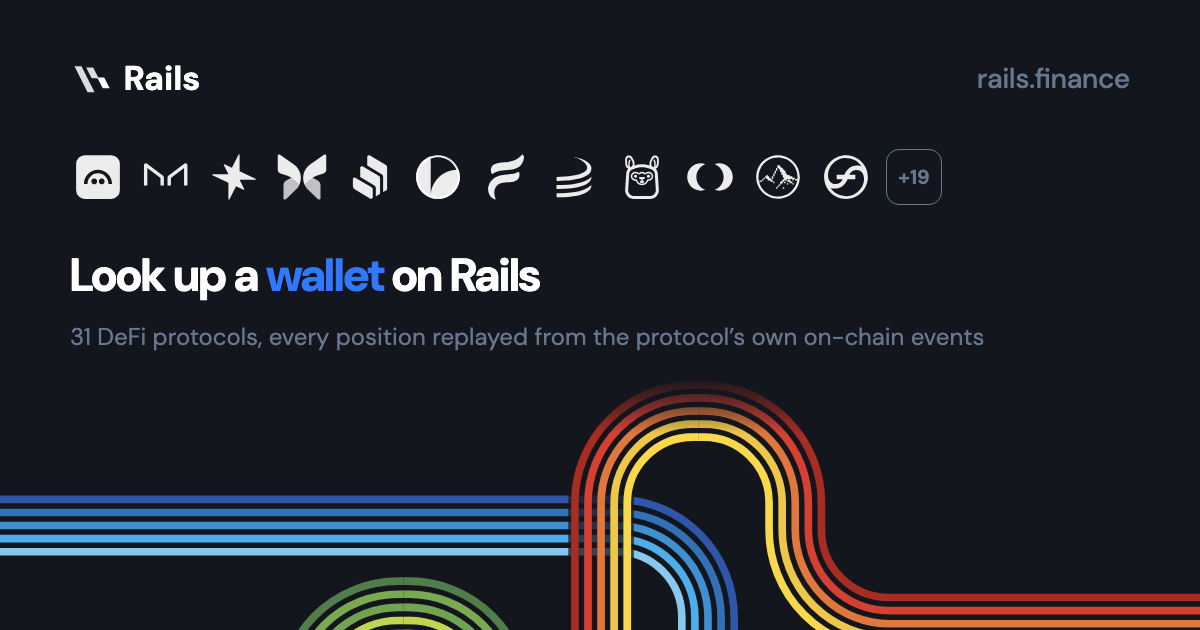
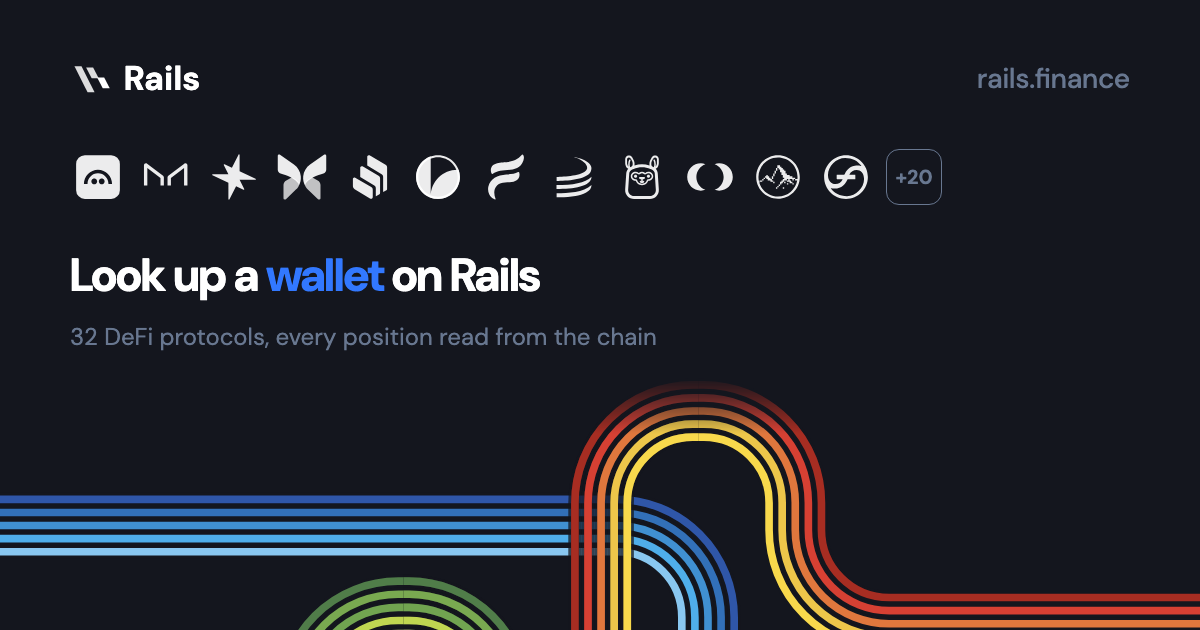
site copy: every position is read from the chain, true of the state-read explorers too (home card, about, metadata, coverage)
Claude-Session: liquidity-pool-research

Changed region(s): [[0.0617, 0.5127, 0.8325, 0.573], [0.74, 0.2714, 0.8017, 0.3016]]

diff --git a/app/layout.tsx b/app/layout.tsx
@@ -57,7 +57,7 @@ export const viewport: Viewport = {
 // advertise.
 //
 // Note what is claimed and what isn't: the foundation below (every position,
-// replayed from the protocol's own events, receipts) IS identical across every
+// read from the chain, receipts) IS identical across every
 // explorer. Depth is not — it varies per explorer, and the per-chain coverage
 // pages (/coverage/<chain>, off lib/shared/coverage.ts) are the one place that
 // states it, so the share copy points there rather than flattening the
@@ -88,7 +88,7 @@ const COVERAGE_PATHS = launchedProductionChains()
 // The home page is the front door, one search (decision 0051), so the title and
 // the share card say the door; the brand leads.
 const SITE_TITLE = "Rails - Look up a wallet";
-const OG_DESCRIPTION = `Look up a wallet by address or ENS name and see its DeFi positions. Rails explores ${PROTOCOL_COUNT} DeFi protocols on ${PRODUCTION_CHAIN_NAMES}, plus Polaris on Sepolia. Every position is replayed from the protocol's on-chain events, with a receipt on every number.`;
+const OG_DESCRIPTION = `Look up a wallet by address or ENS name and see its DeFi positions. Rails explores ${PROTOCOL_COUNT} DeFi protocols on ${PRODUCTION_CHAIN_NAMES}, plus Polaris on Sepolia. Every position is read from the chain, with a receipt on every number.`;
 // Opens on /about's first two sentences (`lib/shared/site-copy.ts`, ui-jobs
 // 475), so a search summary built from it says what /about says.
 const SITE_DESCRIPTION = `${SITE_LEAD} ${SITE_METHOD} Look up any wallet by address or ENS name, or browse every open position. How deep each explorer goes is stated per protocol at ${COVERAGE_PATHS}.`;
@@ -133,7 +133,7 @@ export const metadata: Metadata = {
         // fresh rather than served stale from their cache. Bump the hash
         // (`shasum -a 256 public/og/home.png | cut -c1-8`) whenever
         // `pnpm og` changes this file's bytes.
-        url: "/og/home-2adee7bf.png",
+        url: "/og/home-42a176a8.png",
         width: 1200,
         height: 630,
         alt: `Look up a wallet on Rails: ${PROTOCOL_COUNT} DeFi protocols on ${PRODUCTION_CHAIN_NAMES}, plus Polaris on Sepolia`,
@@ -144,7 +144,7 @@ export const metadata: Metadata = {
     card: "summary_large_image",
     title: SITE_TITLE,
     description: OG_DESCRIPTION,
-    images: ["/og/home-2adee7bf.png"],
+    images: ["/og/home-42a176a8.png"],
     creator: TWITTER_HANDLE,
     site: TWITTER_HANDLE,
   },

diff --git a/lib/shared/page-metadata.ts b/lib/shared/page-metadata.ts
@@ -77,7 +77,7 @@ export const TWITTER_HANDLE = RAILS_X_AT;
 // bytes — `public/og/home.png` itself stays at its unhashed path too (kept on
 // disk for scripts/verify/verify-share-abuse.mjs's static-file census), and is
 // regenerated in place alongside this hashed copy.
-export const HOME_SHARE_IMAGE = "/og/home-2adee7bf.png";
+export const HOME_SHARE_IMAGE = "/og/home-42a176a8.png";
 
 /** The Twitter card for a page that sets its own `openGraph` without
  *  `shareMetadata`: the same title and description, on the home share image.
@@ -184,7 +184,7 @@ function shareMetadata(opts: {
   };
 }
 
-const FOUNDATION = "replayed from the protocol's on-chain events, with a receipt on every number.";
+const FOUNDATION = "read from the chain, with a receipt on every number.";
 
 const isAddress = (s: string) => /^0x[a-fA-F0-9]{40}$/.test(s);
 

diff --git a/components/StructuredData.tsx b/components/StructuredData.tsx
@@ -35,7 +35,7 @@ export function StructuredData() {
     "@type": "WebApplication",
     name: "Rails",
     applicationCategory: "FinanceApplication",
-    description: `Dedicated, on-chain-verifiable explorers for ${protocolCount} DeFi protocols on ${chainNames}, plus Polaris on Sepolia, every position replayed from the protocol's on-chain events, with a receipt on every number.`,
+    description: `Dedicated, on-chain-verifiable explorers for ${protocolCount} DeFi protocols on ${chainNames}, plus Polaris on Sepolia, every position read from the chain, with a receipt on every number.`,
     url: SITE_URL,
     operatingSystem: "Web",
     offers: {

diff --git a/lib/shared/site-copy.ts b/lib/shared/site-copy.ts
@@ -12,4 +12,4 @@ export const SITE_LEAD = `Rails is a set of read-only explorers for ${LAUNCHED_P
 /** The second sentence of /about and of its description: how every figure is
  *  sourced. */
 export const SITE_METHOD =
-  "Every position is replayed from the protocol's on-chain events, with a receipt showing where each number came from.";
+  "Every position is read from the chain, with a receipt showing where each number came from.";

diff --git a/components/coverage/coverage-page.tsx b/components/coverage/coverage-page.tsx
@@ -92,7 +92,7 @@ const FOUNDATION: { title: string; detail: string }[] = [
   },
   {
     title: "No modeled state",
-    detail: "every number replayed from the protocol's on-chain events, nothing estimated or interpolated",
+    detail: "every number read from the chain, nothing estimated or interpolated",
   },
   {
     title: "Provenance on every figure",
